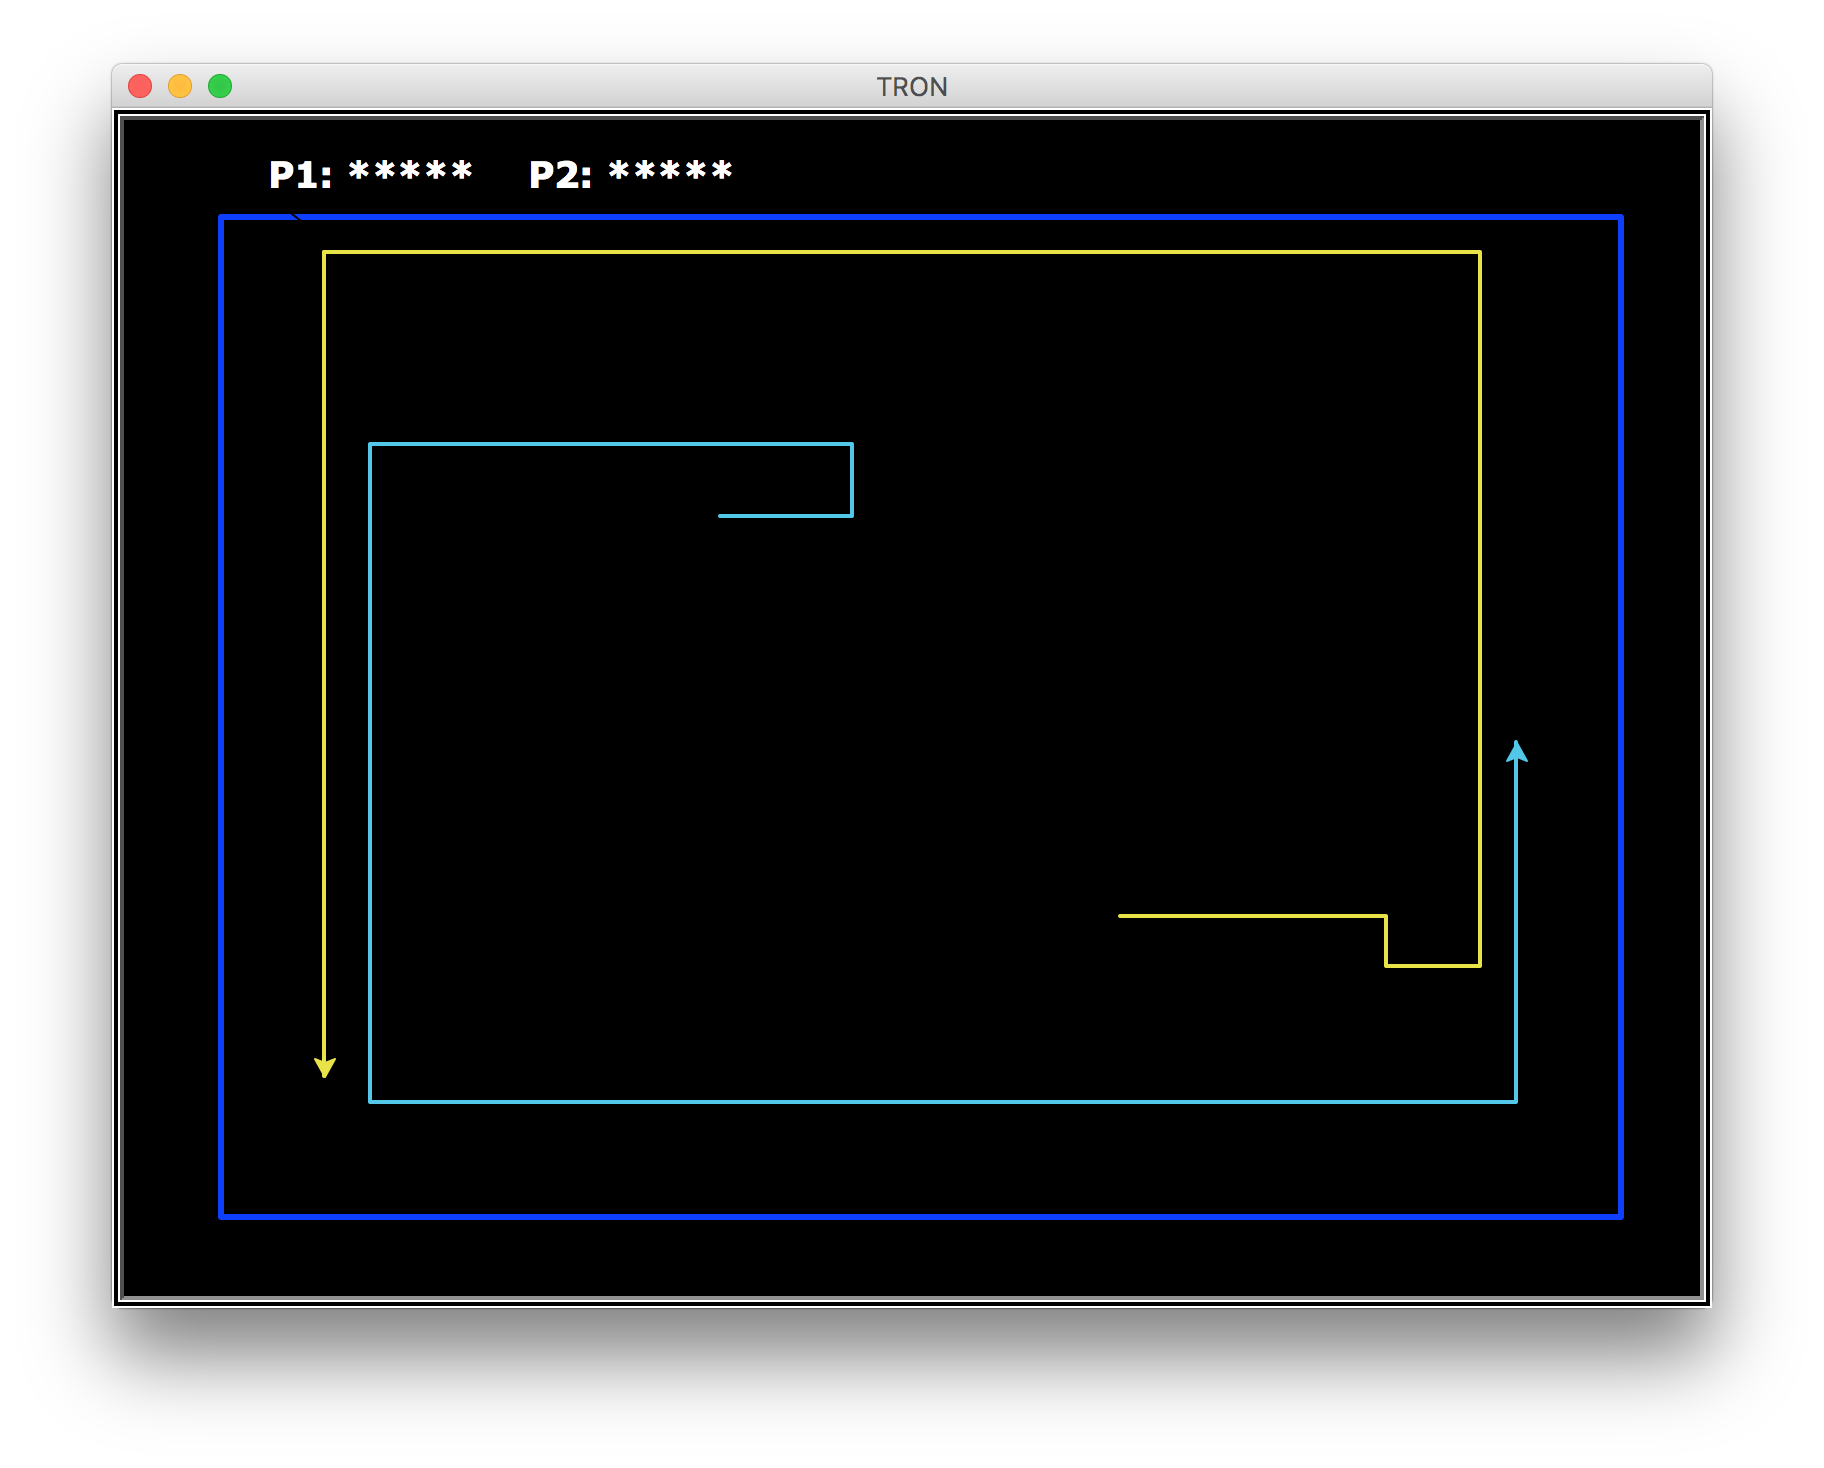
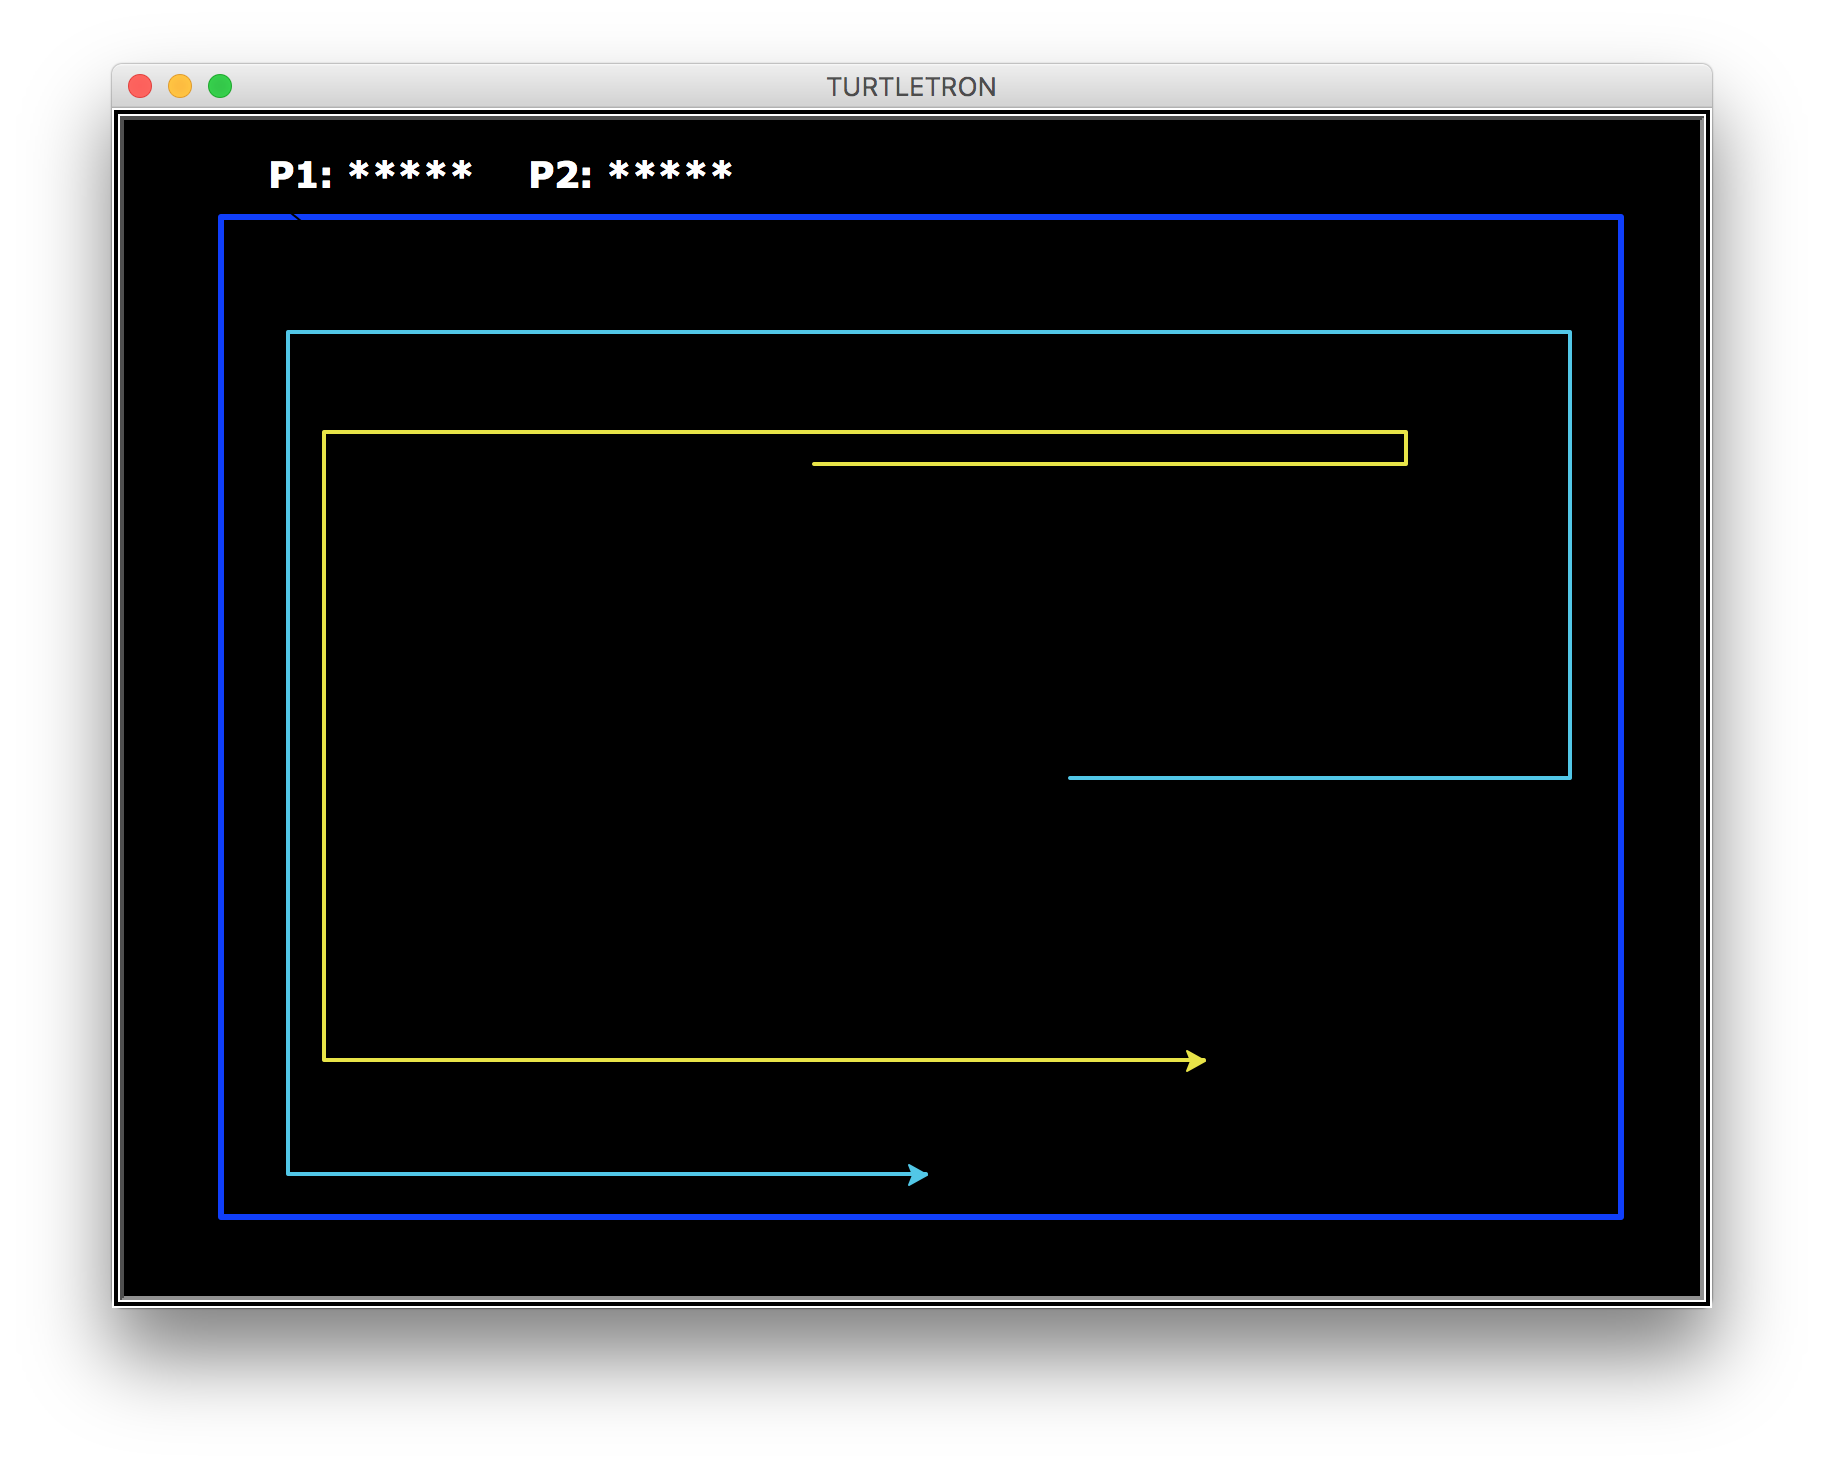
update image and image sizes

diff --git a/main.py b/main.py
@@ -13,7 +13,7 @@ class MainMenu(object):
     current_screen = 'main'
     game_on = False
     relative_controls = False
-
+    
     def __init__(self):
         self.keyboard_bindings()
 
@@ -25,7 +25,7 @@ class MainMenu(object):
         self.screen.bgcolor('black')
         self.screen.bgpic('images/main_menu.gif')
         self.screen.setup(self.width, self.height, startx=None, starty=None)
-        self.screen.title('TRON')
+        self.screen.title('TURTLETRON')
         self.screen.tracer(0)
 
     def set_cursor_master(self):

diff --git a/README.md b/README.md
@@ -1,7 +1,7 @@
 # Turtle Tron
 
-![main menu](https://github.com/reeses-pieces/tron/images/main_menu.gif "Main Menu")
-![gameplay](https://github.com/reeses-pieces/tron/images/screenshots/gameplay.png "Gameplay")
+![main menu](images/screenshots/main_menu.png =800x600)
+![gameplay](images/screenshots/gameplay.png =800x600 "Gameplay")
 
 ## Synopsis
 
